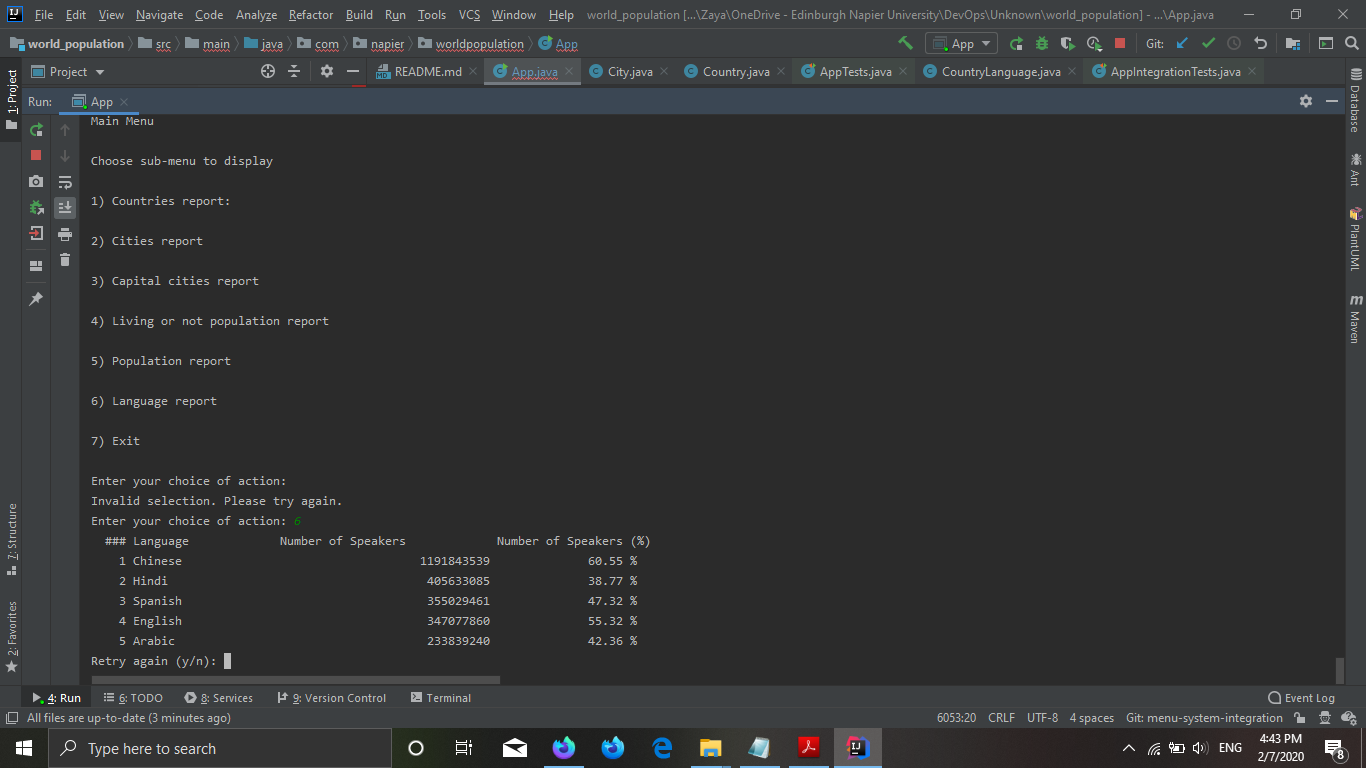
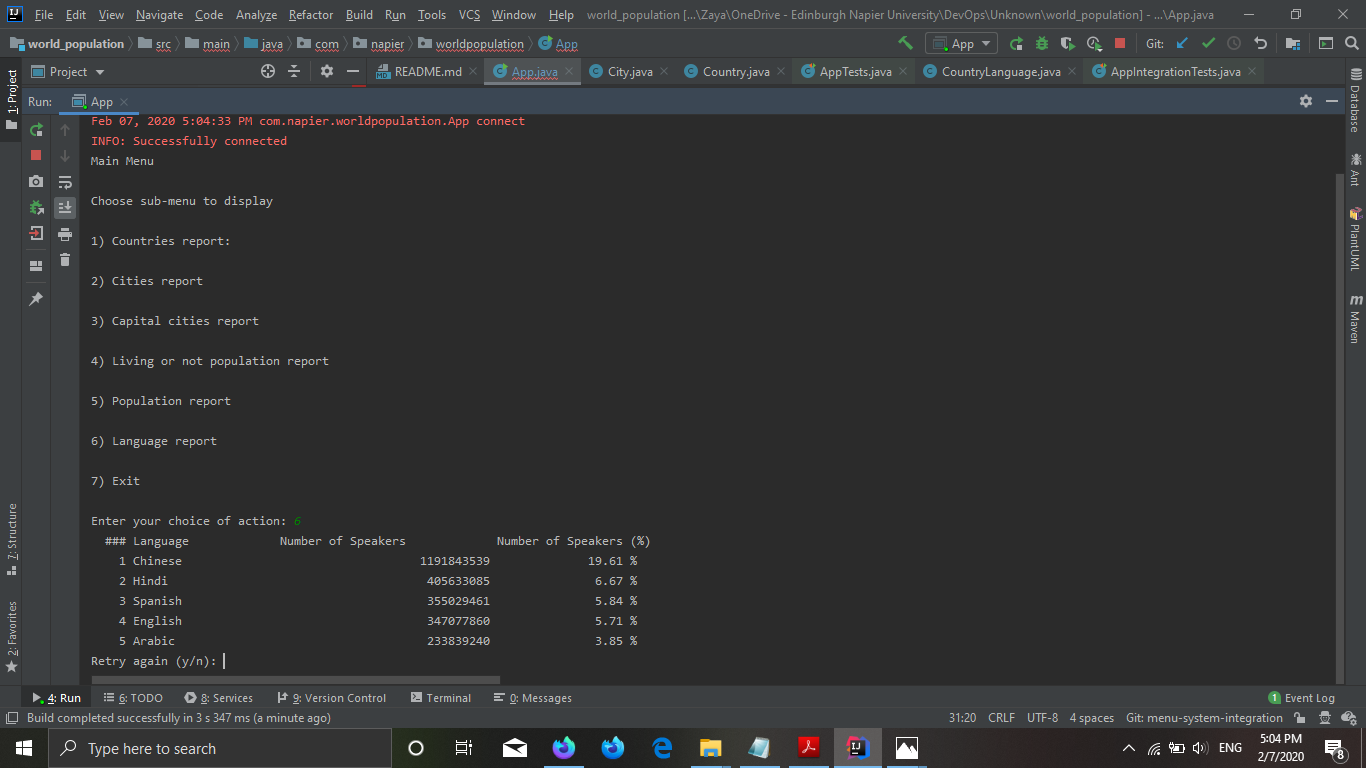
Fix language percentage Add screenshot

diff --git a/src/main/java/com/napier/worldpopulation/App.java b/src/main/java/com/napier/worldpopulation/App.java
@@ -548,7 +548,7 @@ public class App
         try {
             Statement statement = con.createStatement();
             // The following is a query to retrieve all the countries in the world
-            String query="SELECT `countrylanguage`.`Language`, SUM( `country`.`Population` *(`countrylanguage`.`Percentage` / 100) ) AS `NoOfSpeakers`, ( CONCAT(ROUND (( SUM( `country`.`Population` *(`countrylanguage`.`Percentage` / 100) ) / SUM(`country`.`Population`) ) * 100,2),' %') ) AS `Percentage` FROM `countrylanguage` LEFT JOIN `country` ON `countrylanguage`.`CountryCode` = `country`.`Code` WHERE `countrylanguage`.`Language` = 'Arabic' OR `countrylanguage`.`Language` = 'Chinese' OR `countrylanguage`.`Language` = 'English' OR `countrylanguage`.`Language` = 'Hindi' OR `countrylanguage`.`Language` = 'Spanish' GROUP BY `countrylanguage`.`Language` ORDER BY `NoOfSpeakers` DESC ";
+            String query="SELECT `countrylanguage`.`Language`, SUM( `country`.`Population` *(`countrylanguage`.`Percentage` / 100) ) AS `NoOfSpeakers`, ( CONCAT(ROUND (( SUM( `country`.`Population` *(`countrylanguage`.`Percentage` / 100) ) / ( SELECT SUM(`country`.`Population`) FROM `country`) ) * 100,2),' %') ) AS `Percentage` FROM `countrylanguage` LEFT JOIN `country` ON `countrylanguage`.`CountryCode` = `country`.`Code` WHERE `countrylanguage`.`Language` = 'Arabic' OR `countrylanguage`.`Language` = 'Chinese' OR `countrylanguage`.`Language` = 'English' OR `countrylanguage`.`Language` = 'Hindi' OR `countrylanguage`.`Language` = 'Spanish' GROUP BY `countrylanguage`.`Language` ORDER BY `NoOfSpeakers` DESC ";
             ArrayList<CountryLanguage> arr_lang = new ArrayList<CountryLanguage>();
             ResultSet results_lang = statement.executeQuery(query);
 
